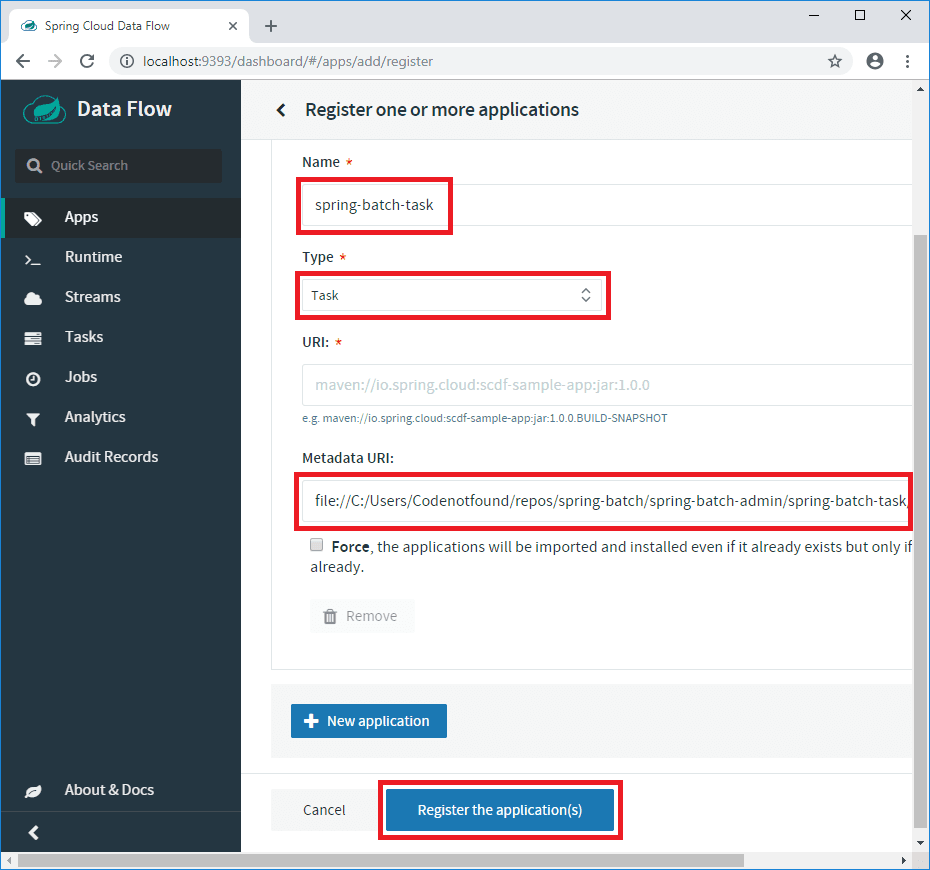
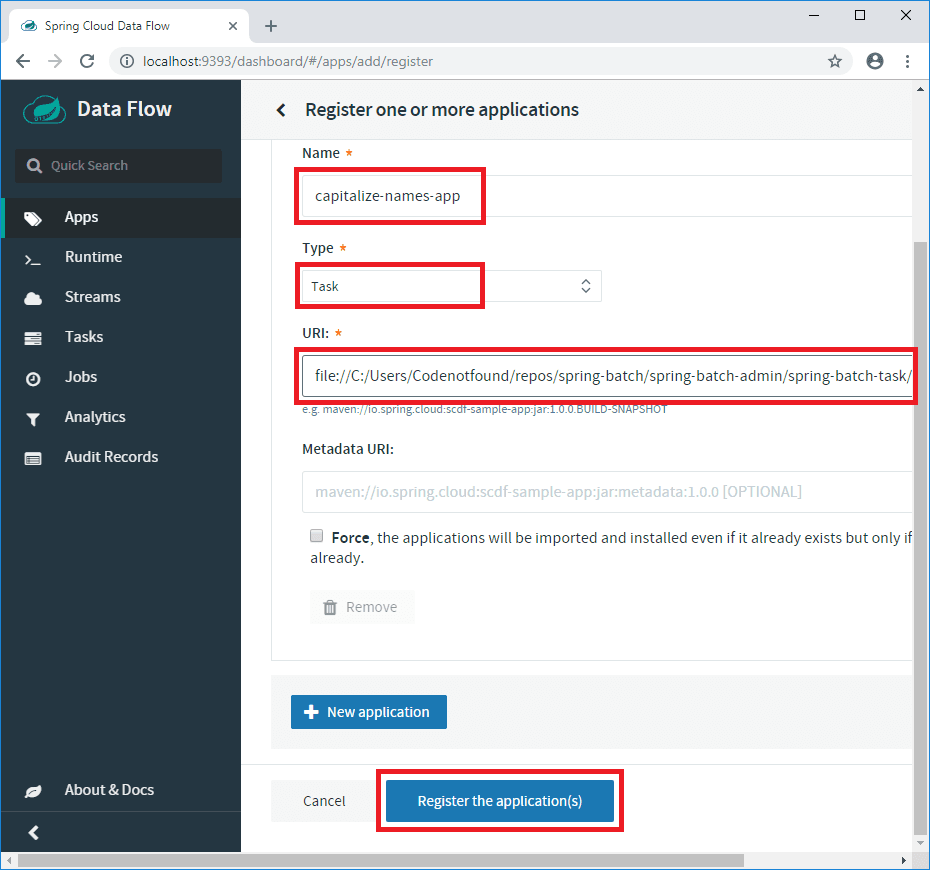
update post

diff --git a/_posts/spring-batch/2018-11-11-spring-batch-admin-example.md b/_posts/spring-batch/2018-11-11-spring-batch-admin-example.md
@@ -23,7 +23,7 @@ Let's dive right in.
 
 ## What is Spring Batch Admin?
 
-Spring Batch Admin provides a web-based user interface (UI) that allows you to manage [Spring Batch](https://spring.io/projects/spring-batch){:target="_blank"} jobs. The project however is **end of life since December 31, 2017**.
+Spring Batch Admin provides a web-based user interface (UI) that allows you to manage [Spring Batch](https://spring.io/projects/spring-batch){:target="_blank"} jobs. However, the project is **end-of-life since December 31, 2017**.
 
 [Spring Cloud Data Flow](https://cloud.spring.io/spring-cloud-dataflow/){:target="_blank"} is now the [recommended replacement](https://github.com/spring-projects/spring-batch-admin#note-this-project-is-being-moved-to-the-spring-attic-and-is-not-recommended-for-new-projects--spring-cloud-data-flow-is-the-recommended-replacement-for-managing-and-monitoring-spring-batch-jobs-going-forward--you-can-read-more-about-migrating-to-spring-cloud-data-flow-here){:target="_blank"} for managing and monitoring Spring Batch jobs. It is one of the [main Spring Projects](https://spring.io/projects){:target="_blank"}.
 
@@ -52,7 +52,7 @@ Spring Cloud Data Flow is **a toolkit for building data processing pipelines**. 
 
 All we need to do is annotate our existing `SpringBatchApplication` with `@EnableTask` as shown below.
 
-This class-level annotation tells Spring Cloud Task to bootstrap it's functionality. It enables a `TaskConfigurer` that registers the application in a `TaskRepository`.
+This class-level annotation tells Spring Cloud Task to bootstrap its functionality. It enables a `TaskConfigurer` that registers the application in a `TaskRepository`.
 
 Spring Cloud Task will also [associate the execution of a batch job with a task's execution](https://docs.spring.io/spring-cloud-task/docs/1.3.0.RELEASE/reference/htmlsingle/#batch-association){:target="_blank"} so that one can be traced back to the other. This association is by default in any context that has both a Spring Batch Job configured and the `spring-cloud-task-batch` JAR available within the classpath.
 
@@ -88,7 +88,7 @@ spring:
     driverClassName: org.h2.Driver
 {% endhighlight %}
 
- To enable above configuration changes we need to add additional dependencies in the Maven <var>pom.xml</var> file.
+To enable the above configuration changes we need to add additional dependencies in the Maven <var>pom.xml</var> file.
 
 The `spring-cloud-starter-task` starter includes the dependencies for testing Spring Boot applications. It imports libraries that include [JUnit](http://junit.org/junit4/){:target="_blank"}, [Hamcrest](http://hamcrest.org/JavaHamcrest/){:target="_blank"} and [Mockito](https://site.mockito.org/){:target="_blank"}.
 
@@ -179,7 +179,7 @@ The result is a <var>spring-batch-task-0.0.1-SNAPSHOT.jar</var> JAR file in the 
 
 ## Running a Spring Cloud Data Flow Server
 
-In this example we will run Spring Cloud Data Flow on a local server.
+In this example, we will run Spring Cloud Data Flow on a local server.
 
 Create a new <var>spring-cloud-data-flow-server</var> Maven project.
 
@@ -353,11 +353,13 @@ This will open the Spring Cloud Data Flow dashboard as shown below.
 
 Now it's time to add our Spring Batch Task. Click on the <var>Add Application(s)</var> button.
 
-<img src="{{ site.url }}/assets/images/spring-batch/spring-cloud-data-flow-dashboard.png" alt="spring cloud data flow dashboard">
+<img src="{{ site.url }}/assets/images/spring-batch/spring-cloud-data-flow-dashboard-add-application.png" alt="spring cloud data flow dashboard add application">
 
 Click on <var>Register one or more applications</var>.
 
-Enter <kbd>spring-batch-task-application</kbd> as <var>name</var> and select <kbd>Task</kbd> as <var>type</var>.
+<img src="{{ site.url }}/assets/images/spring-batch/spring-cloud-data-flow-dashboard-add-application-register.png" alt="spring cloud data flow dashboard add application register">
+
+Enter <kbd>capitalize-names-app</kbd> as <var>name</var> and select <kbd>Task</kbd> as <var>type</var>.
 
 For the <var>URI</var> we enter the location of our Spring Boot Task JAR file: <kbd>file://C:/Users/Codenotfound/repos/spring-batch/spring-batch-admin/spring-batch-task/target/spring-batch-task-0.0.1-SNAPSHOT.jar</kbd>
 
@@ -367,7 +369,7 @@ Once done click on <var>Register the application(s)</var>.
 
 Our application is now registered.
 
-Click on the <var>Task</var> menu to create a new task.
+Now click on the <var>Task</var> menu to create a new task that we can execute.
 
 <img src="{{ site.url }}/assets/images/spring-batch/spring-cloud-data-flow-applications.png" alt="spring cloud data flow applications">
 
@@ -385,7 +387,7 @@ Enter <kbd>spring-batch-task</kbd> as task name and click on <var>Create the tas
 
 <img src="{{ site.url }}/assets/images/spring-batch/spring-cloud-data-flow-task-creation-confirmation.png" alt="spring cloud data flow task creation confirmation">
 
-Our capitalize-names-task is now ready to used used. Click on the play icon to start an instance.
+Our capitalize-names-task is now ready to be used. Click on the play icon to start an instance.
 
 <img src="{{ site.url }}/assets/images/spring-batch/spring-cloud-data-flow-tasks-definitions-launch.png" alt="spring cloud data flow tasks definitions launch">
 
